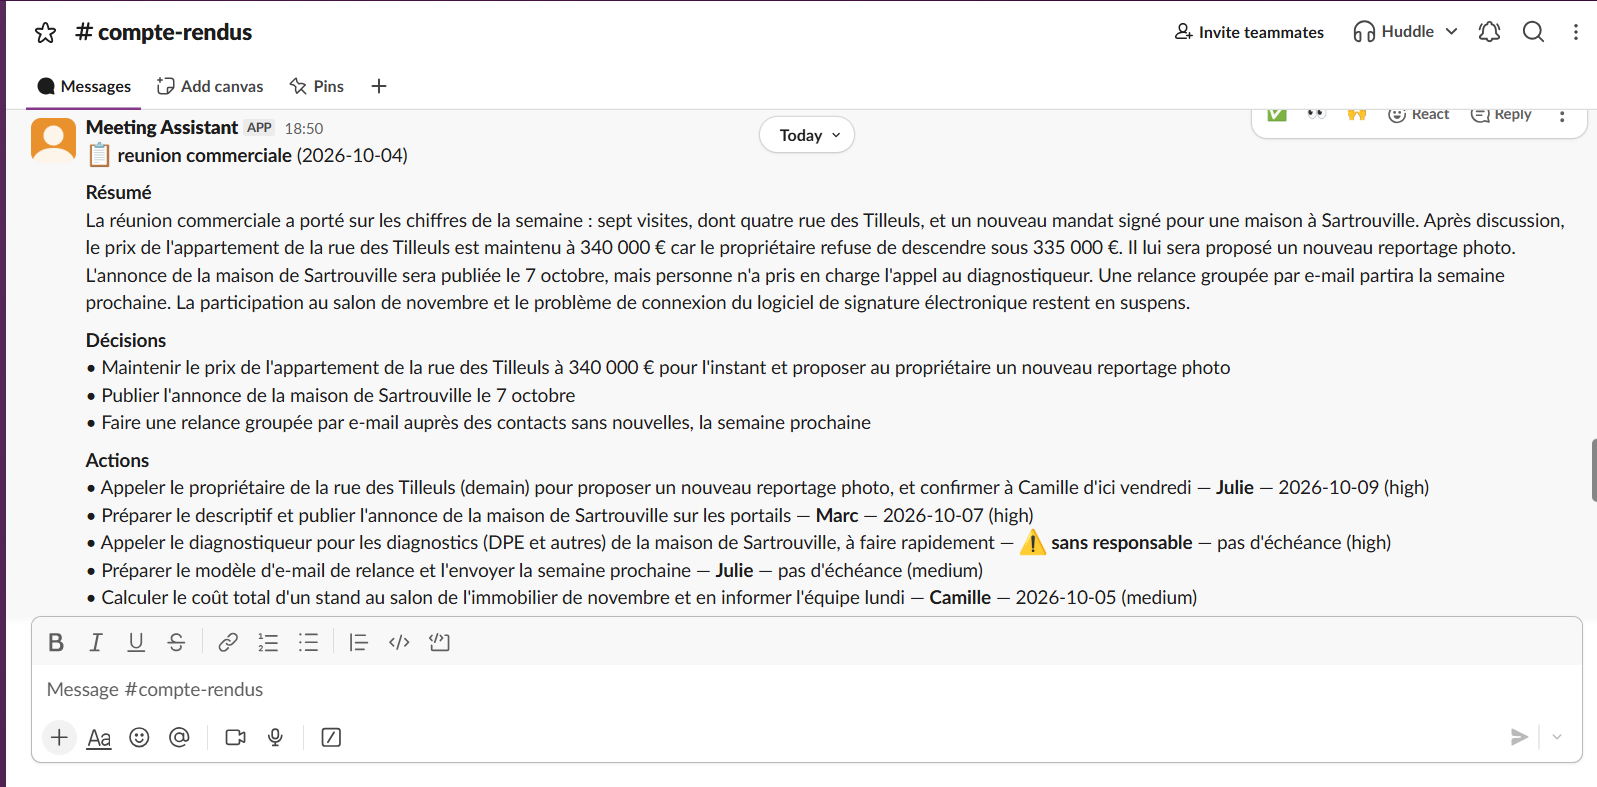
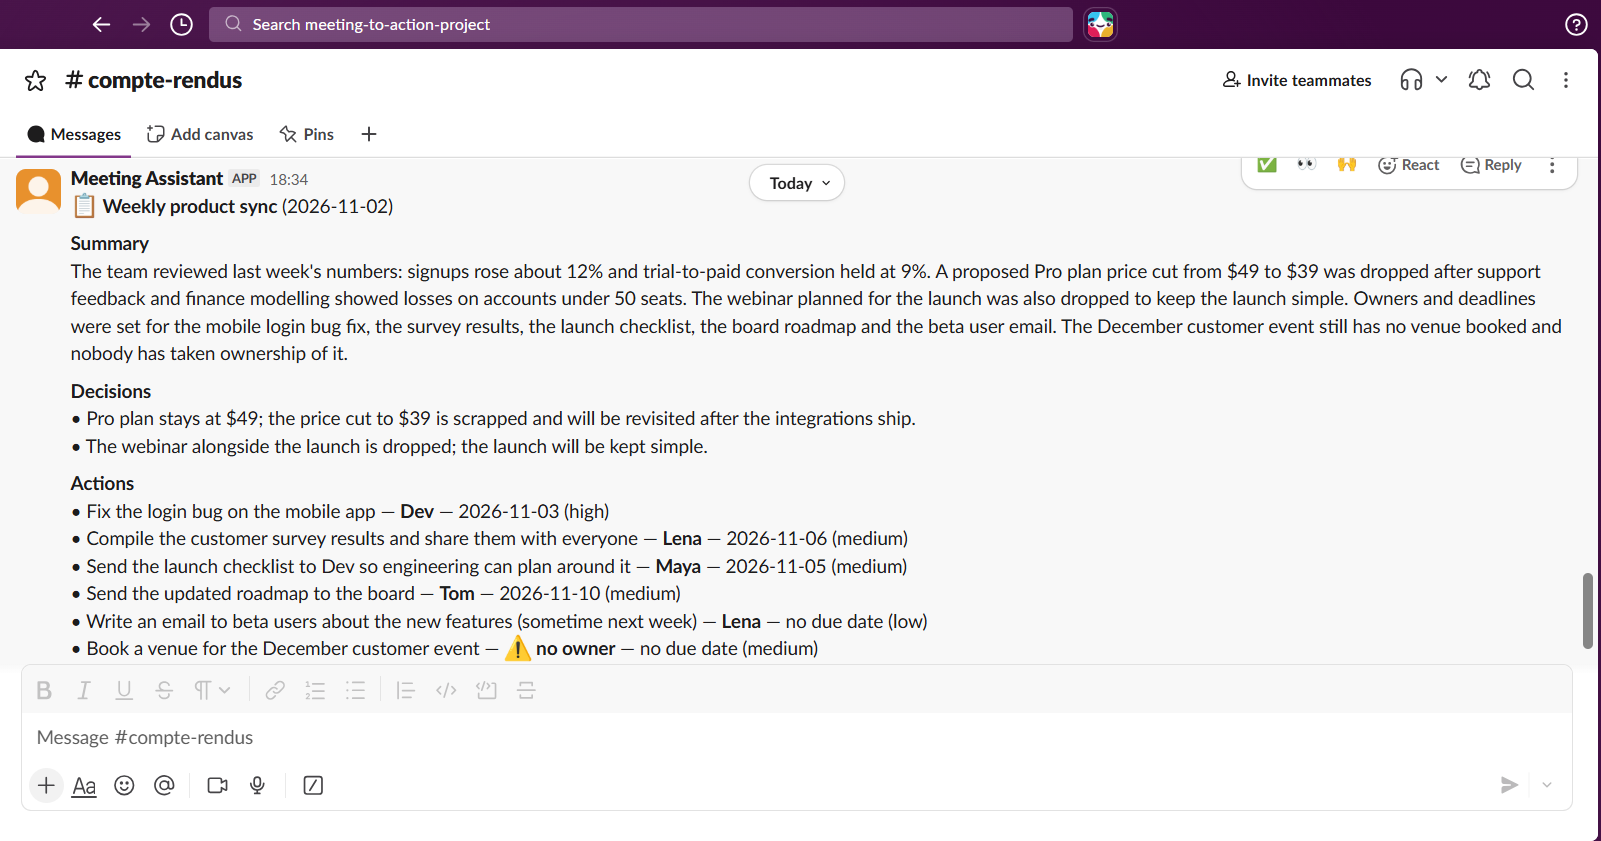
English README and team guide, new screenshots, re-exported workflows

diff --git a/README.md b/README.md
@@ -1,28 +1,37 @@
 # Meeting-to-Action Assistant
 
 An n8n + Claude workflow that turns a meeting transcript into a summary, decisions, assigned
-actions and a tracking row per action in Google Sheets, then posts the recap to Slack.
+actions and open questions, posts the recap to Slack and logs every run in Google Sheets.
 
 **The problem.** Nobody likes writing meeting notes, so actions get lost and owners are unclear.
-This workflow produces the recap in about 15 seconds and logs every action in a sheet the team
-can follow, without inventing owners or deadlines that nobody stated.
+This workflow produces the recap in about 15 seconds, without inventing owners or deadlines that
+nobody stated. The transcript can be in any language; **the output is always in English**.
+(The earlier French-output version is kept under the git tag `v1-french` and in [`legacy/fr/`](legacy/fr/).)
 
 ![n8n workflow](docs/workflow.png)
 
 ## Sample output
 
-Slack recap (excerpt) for a fictional sales meeting dated 2026-10-06:
+Slack recap for a fictional product sync dated 2026-11-02 (transcript: [`samples/01_product_sync.txt`](samples/01_product_sync.txt)):
 
 ```
+📋 Weekly product sync (2026-11-02)
+
+Decisions
+• Pro plan stays at $49; the price cut to $39 is scrapped and will be revisited after the integrations ship.
+• The webinar alongside the launch is dropped; the launch will be kept simple.
+
 Actions
-• Préparer le descriptif de la maison de Sartrouville et publier l'annonce sur les portails — Marc — 2026-10-07 (high)
-• Appeler le diagnostiqueur ... à faire rapidement — ⚠ sans responsable — pas d'échéance (high)
-• Préparer le modèle d'e-mail de relance et l'envoyer la semaine prochaine ... — Julie — pas d'échéance (medium)
+• Fix the login bug on the mobile app — Dev — 2026-11-03 (high)
+• Compile the customer survey results and share them with everyone — Lena — 2026-11-06 (medium)
+• Send the updated roadmap to the board — Tom — 2026-11-10 (medium)
+• Write an email to beta users about the new features (sometime next week) — Lena — no due date (low)
+• Book a venue for the December customer event — ⚠ no owner — no due date (medium)
 ```
 
-The price drop to 325 000 € was discussed and then reversed in the meeting, so only the final
-decision (keep 340 000 €) is recorded. "La semaine prochaine" stays `pas d'échéance` instead of
-becoming an invented date.
+In the meeting the $39 price cut and the webinar were discussed and then cancelled, so only the final
+decisions are recorded. "Sometime next week" stays `no due date` instead of becoming an invented date,
+and the venue nobody volunteered for is flagged as having no owner.
 
 ## How it works
 
@@ -37,78 +46,81 @@ Form (title, date, participants, transcript)
         |
    Parse + validate output (Code node)
         |
-   Slack recap  ---->  one Google Sheet row per action
+   Slack recap
         |
         +---------->  run log (date, title, word count, actions, minutes saved)
 
-Any failure  --> Error workflow --> Slack alert with the meeting title
+Any failure  --> Error workflow --> Slack alert with the failed step
 ```
 
 - **Trigger:** n8n Form (title, date, participants, transcript).
-- **Guard:** transcripts under a minimum word count are rejected with a clear Slack message.
+- **Guard:** transcripts under 50 words are rejected with a clear Slack message.
 - **Extraction:** HTTP Request to the Anthropic Messages API. Structured output comes from tool use
   (`save_meeting_summary`), so the result is typed JSON: `summary`, `decisions`, `actions`
   (`task`, `owner`, `due_date`, `priority`), `open_questions`.
 - **Validation:** a Code node finds the `tool_use` block and merges title and date back in.
-- **Outputs:** a formatted Slack recap (actions without owner or date are flagged) and one
-  Sheet row per action with status `open`.
-- **Usage log:** every run adds a row to a `Log` tab (date, title, word count, number of actions,
-  15 minutes saved, an assumption, not a measurement) and a counter shows hours saved.
-- **Errors:** a separate error workflow posts a Slack alert with the meeting title so the run can be replayed.
+- **Outputs:** a formatted Slack recap (actions without owner or date are flagged) and a row in a `Log` tab.
+- **Usage log:** every run adds a row (date, title, word count, number of actions, 15 minutes saved, an
+  assumption, not a measurement) and a counter shows hours saved.
+- **Errors:** a separate error workflow posts a Slack alert with the failed step and a link to the execution.
 
 ## Run it yourself
 
 1. In n8n, **Import from file** both `workflow/meeting-to-action.json` and `workflow/error-handler.json`.
 2. Create your own credentials (Anthropic key as a Header Auth credential named `x-api-key`, Slack, Google Sheets)
    and select them on the nodes. No secrets are stored in the exports.
-3. Point the Google Sheets nodes at your own sheet (a tab for actions and a `Log` tab) and the Slack nodes at your channel.
+3. Point the Google Sheets node at your own sheet (a `Log` tab with the headers `date`, `meeting_title`,
+   `word_count`, `actions`, `minutes_saved`) and the Slack nodes at your channel.
 4. In the main workflow's settings, set the error workflow to the imported handler, then publish both.
 
 ## Prompt versions
 
-See [`prompts/v1.md`](prompts/v1.md). In short: v1 invented a precise date for
-"la semaine prochaine"; v2 forces `null` for vague deadlines and keeps the wording in the task text.
+See [`prompts/v1.md`](prompts/v1.md).
+- **v1** invented a precise date for a vague deadline ("next week").
+- **v2** forces `null` for vague deadlines and keeps the wording in the task text (output in French).
+- **v3 (current)** same rules, output always in English whatever the transcript language.
 
 ## Evaluation
 
-`eval/run_eval.py` scores the extraction against hand-written ground truth for 3 French
-transcripts, each with built-in traps (a reversed price decision, a cancelled action, vague deadlines,
-unowned tasks, a rambling conversation).
+`eval/run_eval.py` scores the extraction against hand-written ground truth for 3 English transcripts
+(18 required actions), each with built-in traps: a reversed price decision, dropped items, a client
+switching plans, vague deadlines, unowned tasks and a rambling stand-up.
 
-| Run | Action recall | Owner accuracy | Due-date accuracy | Hallucinated actions |
-|---|---|---|---|---|
-| Live run 1 | 14/15 (93%) | 14/14 (100%) | 14/14 (100%) | 0 |
-| Live run 2 | 15/15 (100%) | 15/15 (100%) | 15/15 (100%) | 0 |
+| Run (prompt v3, English) | Action recall | Owner accuracy | Due-date accuracy | Hallucinated actions | Extra actions |
+|---|---|---|---|---|---|
+| Live run 1 | 18/18 (100%) | 18/18 (100%) | 18/18 (100%) | 0 | 0 |
+| Live run 2 | 18/18 (100%) | 18/18 (100%) | 18/18 (100%) | 0 | 0 |
 
-Run 1 flagged one missing action. The action was present, but the keyword matcher was too
-strict about its wording. I fixed the matcher (any-of keyword groups), not the model, and re-ran: run 2.
-
-Both runs show 1 extra action not in the ground truth (informational, not a failure).
+The earlier French version (prompt v2, 3 French transcripts, 15 required actions) scored 14/15 and then 15/15
+on recall, with 100% owner and due-date accuracy and 0 hallucinations. Its first run flagged one missing action that
+was actually present: the keyword matcher was too strict about wording. I fixed the matcher (any-of keyword
+groups), not the model. Those results are kept in `eval/results/live_run_1.json` and `live_run_2.json`.
 
 ```bash
 pip install -r requirements.txt
-# PowerShell:  $env:ANTHROPIC_API_KEY = "sk-ant-..."
-# macOS/Linux: export ANTHROPIC_API_KEY="sk-ant-..."
+# PowerShell:  $env:ANTHROPIC_API_KEY = "your-key"
+# macOS/Linux: export ANTHROPIC_API_KEY="your-key"
 python eval/run_eval.py --out eval/results/live_run.json
-# or score saved n8n outputs without an API key:
+# or score saved outputs without an API key:
 python eval/run_eval.py --from-file eval/results/n8n_run_v1.json
 ```
 
 The script exits with code 1 on any missing action, hallucinated action or failed decision check,
 so it can run in CI.
 
-**Caveat:** 3 transcripts is a small sample, and model output is not deterministic between runs. This
-shows the method and catches regressions; it is not a statistical guarantee.
+**Caveat:** 3 transcripts is a small sample, and model output is not deterministic between runs. Two perfect runs
+show the method works and catch regressions; they are not a statistical guarantee. I also wrote the transcripts
+and the ground truth myself.
 
 ## Cost per meeting
 
-Measured on one run of the rambling test transcript (03): **2,087 input tokens, 1,568 output tokens**
-(637 of them thinking tokens). At Claude Sonnet 5.5 list price ($2 / M input, $10 / M output):
+Measured on one run of the rambling test transcript: **2,294 input tokens, 1,957 output tokens**. At Claude Sonnet 5.5
+list price ($2 / M input, $10 / M output):
 
-2,087 x $2/M + 1,568 x $10/M = $0.0042 + $0.0157 = **about $0.02 per meeting**.
+2,294 x $2/M + 1,957 x $10/M = $0.0046 + $0.0196 = **about $0.02 per meeting**.
 
-For 20 meetings a month that is about **$0.40**. A real 45-minute meeting transcript is much longer
-(my estimate: roughly 10-12k input tokens), which would give about $0.05 per meeting, around $1 a month.
+For 20 meetings a month that is about **$0.40**. A real 45-minute meeting transcript is much longer (my estimate:
+roughly 10-12k input tokens), which would give about $0.05 per meeting, around $1 a month.
 Prices from the Anthropic pricing page at the time of writing.
 
 ## Privacy
@@ -121,17 +133,21 @@ and for how long, and a check on GDPR obligations before any real client informa
 
 - **Re-running a transcript appends duplicate rows** (no idempotency key yet).
 - The eval uses keyword matching, which can reject a correct paraphrase.
-- Minor model noise remains: some tasks keep the word "demain" in the text, and one speculative open question appears.
+- Minor model noise remains: some tasks keep a relative word such as "tomorrow" in the text, and a speculative open
+  question sometimes appears.
 - Forced tool choice (`tool_choice`) is rejected by this model, so the prompt instructs it to call the tool
   and the Code node handles the extra `thinking` block.
 - Very long transcripts are not chunked yet.
+- If a transcript contains a date that contradicts the meeting date, the model flags it as an open question
+  rather than guessing.
 
 ## Next steps (adoption)
 
 Where the tool meets the team, which is the hard part:
 - Post in the Slack channel the team already reads (done) and add a trigger from a Slack message or a shared email address.
-- A one-page guide in French (written, see [`docs/guide-equipe-fr.md`](docs/guide-equipe-fr.md)): what to paste, what comes out, what the tool does not do, who to ask.
-- A feedback question under each recap ("Utile ?"), logged in a second Sheet tab.
+- A one-page guide (written, see [`docs/guide-en.md`](docs/guide-en.md), French version in [`docs/guide-fr.md`](docs/guide-fr.md)):
+  what to paste, what comes out, what the tool does not do, who to ask.
+- A feedback question under each recap ("Was this useful?"), logged in a second Sheet tab.
 - Latency in the run log (the run log itself and the hours-saved counter are done; latency is not).
 - Week one: send the recap to the meeting owner as a draft to approve before it reaches the channel.
 - Find one enthusiastic colleague to try it first, run a 15-minute demo, collect 5 complaints and fix them the week after.
@@ -140,10 +156,11 @@ Where the tool meets the team, which is the hard part:
 
 ```
 workflow/   n8n exports (credentials removed)
-prompts/    system prompt, tool schema, version notes
-samples/    3 fictional French transcripts
+prompts/    system prompt (v3), tool schema, version notes
+samples/    3 fictional English transcripts
 eval/       run_eval.py, ground truth, results
-docs/       workflow screenshot, French team guide
+docs/       workflow screenshot, team guides (English and French)
+legacy/fr/  the French-output version: prompt v2, samples, ground truth
 ```
 
 ## Stack

diff --git a/docs/guide-en.md b/docs/guide-en.md
@@ -1,0 +1,46 @@
+# Meeting Recap Assistant: one-page guide
+
+> Version française : [guide-fr.md](guide-fr.md)
+
+**What it is for.** You paste a meeting transcript, and about 15 seconds later the team gets a clear recap in Slack: summary, decisions, actions with an owner and a due date, and open questions. Every action is also added to the tracking sheet (Google Sheets). The transcript can be in any language; the recap is always written in English.
+
+## How to use it (2 minutes)
+
+1. Open the form (link pinned in the Slack channel).
+2. Fill in: **title**, **meeting date** (use the right year), **participants**, then **paste the transcript**.
+
+   ![The filled-in form](img/guide-1-formulaire.png)
+
+3. Click Submit. The recap shows up in the Slack channel a few seconds later.
+
+   ![The recap in Slack](img/guide-2-slack.png)
+
+4. Open the tracking sheet (link in the same channel): one row per run, with the title, word count and number of actions.
+
+   ![The tracking sheet](img/guide-3-tableau.png)
+
+## What you get
+
+- A **summary** of a few lines.
+- The **final decisions**. If a price or a choice changed during the meeting, only the last version is kept.
+- The **actions**: task, owner, due date, priority.
+- The **open questions**: what was left undecided.
+
+## What it does and does not do
+
+- It is **designed not to invent anything**. If nobody took an action, it shows "⚠ no owner". If nobody said a precise date ("next week", "as soon as possible"), it shows "no due date" and keeps your words in the task.
+- It **does not replace proofreading**. Read the recap before acting on it, and correct mistakes directly in the sheet.
+- It **does not summarise audio**. You need a text transcript. If it is too short (under 50 words), a warning appears in Slack.
+- It **does not detect duplicates**. Submitting the same meeting twice creates two sets of rows.
+- **Personal data:** do not send sensitive client information until production use has been validated (data-processing agreement, storage location).
+
+## If something goes wrong
+
+- A "Workflow failed" alert appears in Slack: the technical owner has been notified, and you can submit the form again a bit later.
+- Questions, feedback, ideas: write in the Slack channel where the recaps are posted.
+
+## Help us improve it
+
+After each recap, tell us in the Slack thread whether it was **useful** or not, and why. We collect the first feedback for one week, then fix the most annoying issues.
+
+*Time-saving assumption: 15 minutes saved per recap (an estimate, tracked in the "Log" tab of the sheet).*

diff --git a/docs/guide-fr.md b/docs/guide-fr.md
@@ -1,3 +1,5 @@
+> Version française du guide (la capture d'écran du formulaire et du compte rendu montrent la version anglaise de l'outil). English version: [guide-en.md](guide-en.md).
+
 # Assistant « Compte rendu de réunion » : guide d'une page
 
 **À quoi ça sert.** Vous collez la transcription d'une réunion, et en environ 15 secondes l'équipe reçoit dans Slack un compte rendu clair : résumé, décisions, actions avec responsable et échéance, questions ouvertes. Chaque action est aussi ajoutée dans le tableau de suivi (Google Sheets).
